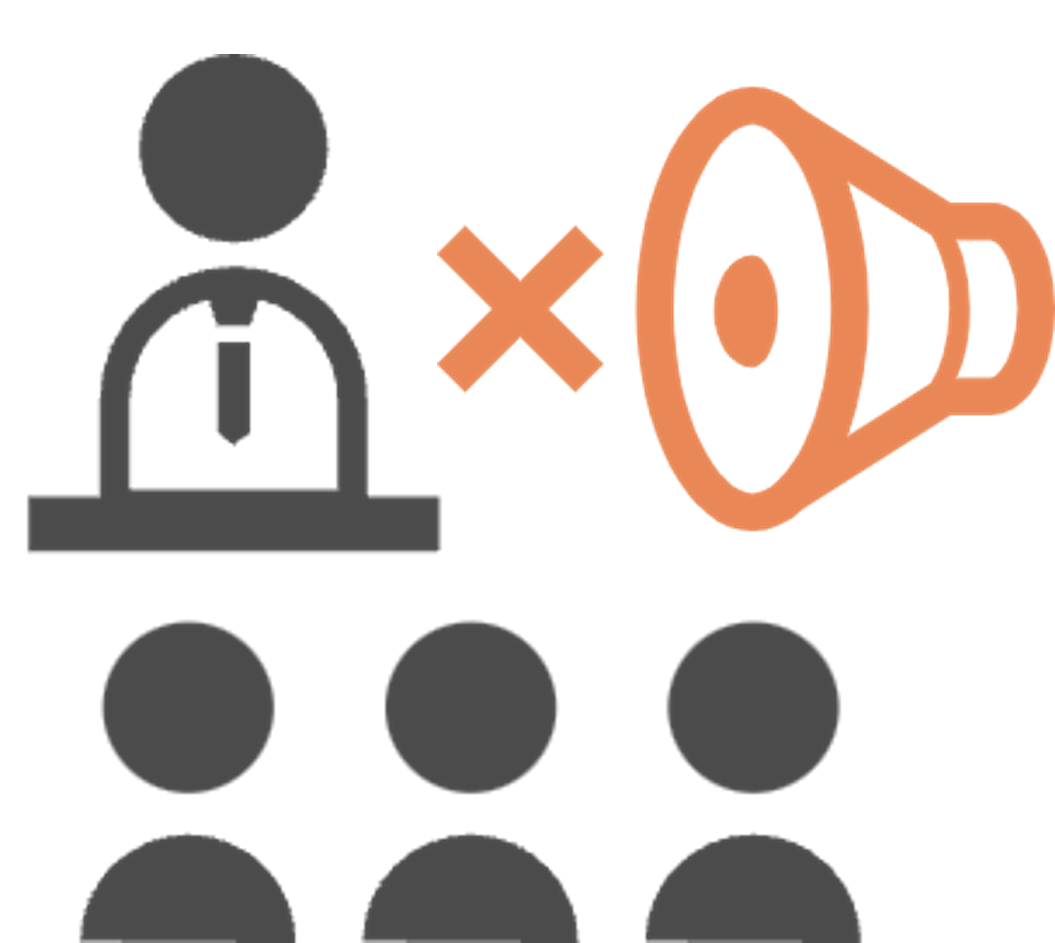
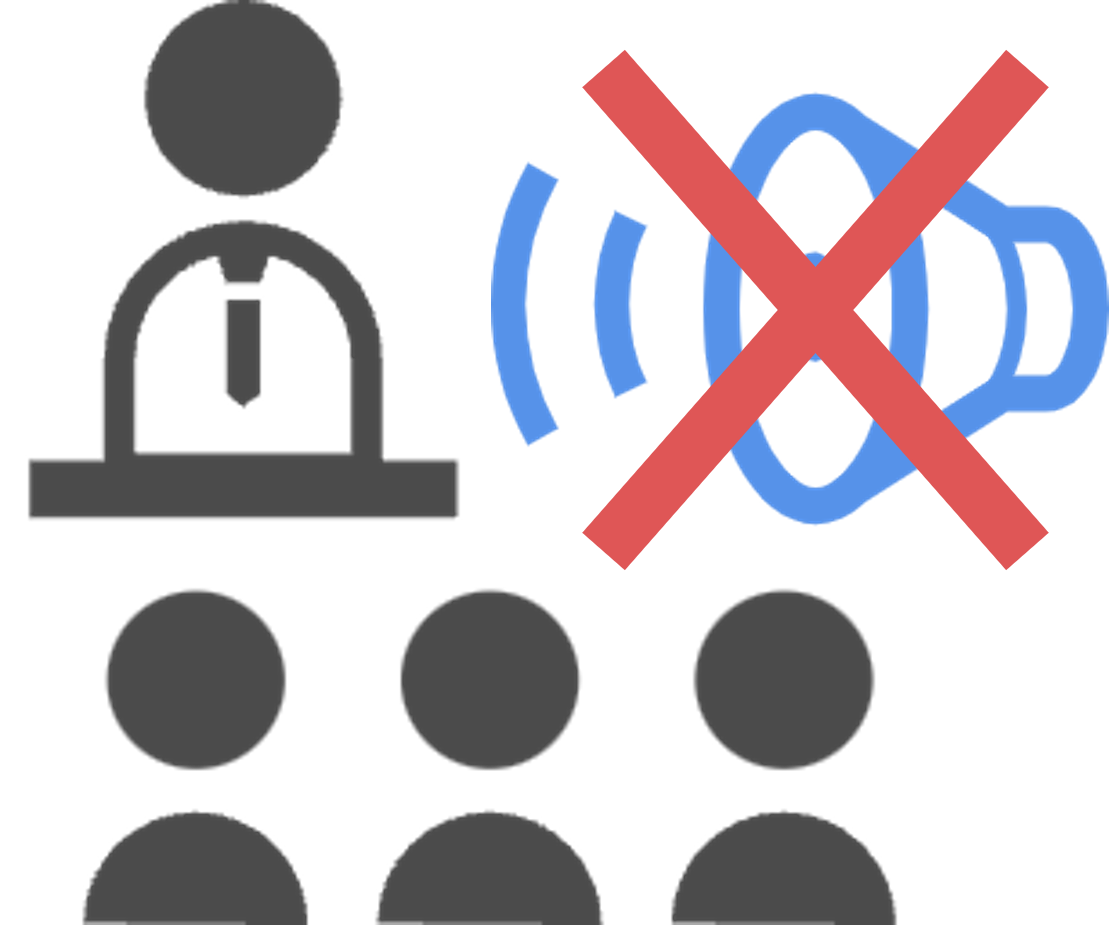
fix

diff --git a/exp/static/javascript/examine1_2.js b/exp/static/javascript/examine1_2.js
@@ -233,7 +233,7 @@ class Experiment12Manager {
       console.log('examine1_2: 実験条件:', dataManager.sampleType);
       
       // config.jsからexamine1_2用のシナリオを取得
-      this.scenarios = config.setExperimentScenarios('eXaM1nE_2', this.userId);
+      this.scenarios = config.setExperimentScenarios('examine1_2', this.userId);
       console.log('examine1_2: 配布されたシナリオ:', this.scenarios.join(', '));
         // データの読み込み
       console.log('examine1_2: データファイルの読み込みを開始:', this.file);
@@ -807,7 +807,7 @@ class Experiment12Manager {
     this.showStimulation();
     setTimeout(() => {
       button1.disabled = false;
-    }, 1500);
+    }, 10);
   }  /**
    * スライダーの質問文を設定
    */
@@ -861,7 +861,7 @@ class Experiment12Manager {
     if (maxResultElement) {
       if (dataManager.sampleType === 'symmetric') {
         // symmetric条件用のmax_result_symmetricがあれば優先、なければデフォルト文言
-        maxResultElement.textContent = '100：' + (scenarioData['max_result_symmetric'] || '確実によく引き起こす');
+        maxResultElement.textContent = '100：' + (scenarioData['max_result_symmetric'] || 'より確実に引き起こす');
       } else {
         maxResultElement.textContent = '100：' + (scenarioData['max_result'] || '確実に引き起こす');
       }

diff --git a/exp/templates/exp/end.html b/exp/templates/exp/end.html
@@ -25,7 +25,7 @@
         <h3>謝金の受け取りについて</h3>
         <li> 以下のコードを、クラウドワークス上で指定した回答欄に入力して下さい。</li>
         <li><textarea rows = 1 id="complete_code" readonly></textarea><br><button id="copy_button">数字をコピーする</button></li>
-        <li>コードが表示されない場合、URLの末尾の「id=」から始まる数字をコードとしてご利用ください。</li>
+        <li>コードが表示されない場合、URLの末尾の「id=」から始まる文字列をコードとしてご利用ください。</li>
         <li>間違ったコードの入力、または入力が無い場合は報酬をお支払いできませんのでご了承ください。</li>
         <li>クラウドワークスへの入力を確認してからページを閉じてください。</li>
     </ul>

diff --git a/exp/templates/exp/top1_2.html b/exp/templates/exp/top1_2.html
@@ -352,7 +352,7 @@
                     <input class="checks" type="checkbox" id="checkbox3" style="transform:scale(1.5)"
                         onclick="check_agreement2()" />
                     <label
-                        for="checkbox3">それらをみて、2つの出来事の因果関係の強さを推定していただきます
+                        for="checkbox3">それらをみて、2つの出来事の因果関係の強さを推定していただきます。
                     </label>
                 </p>
                 <br>
